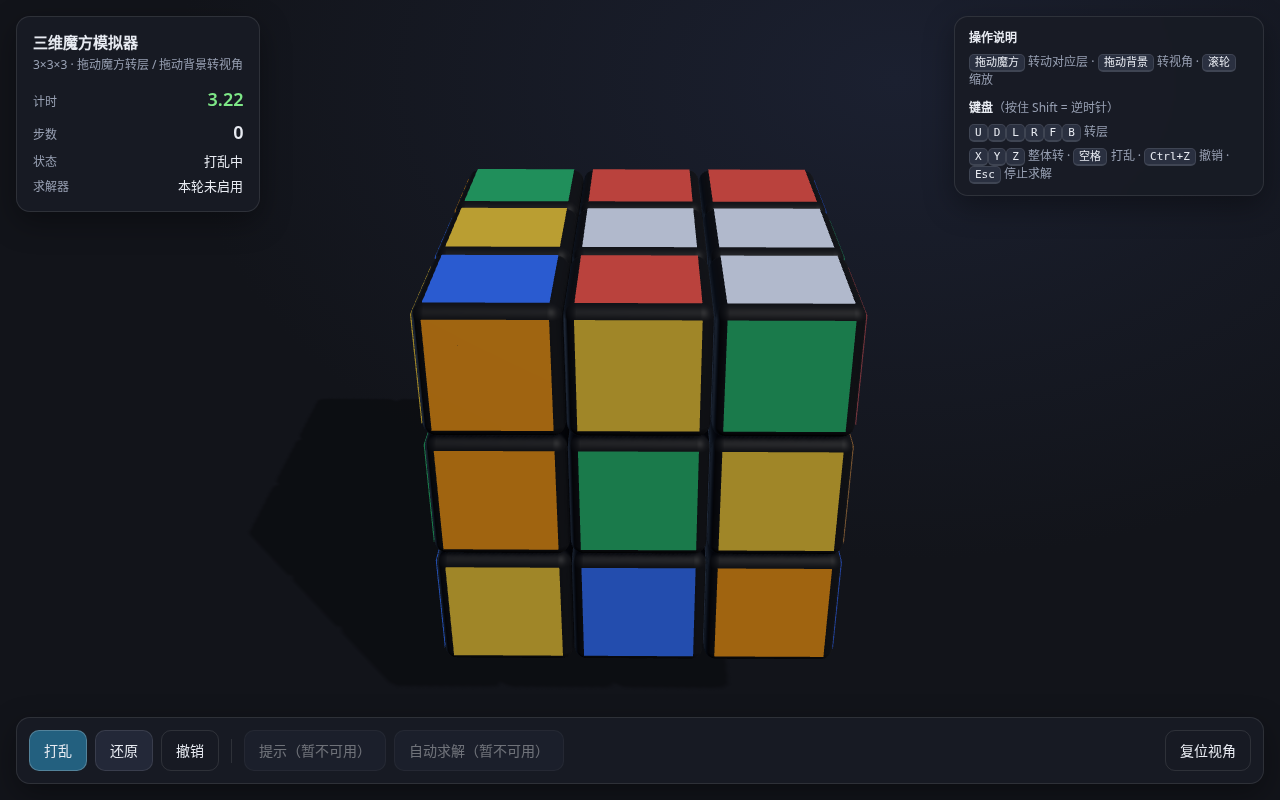
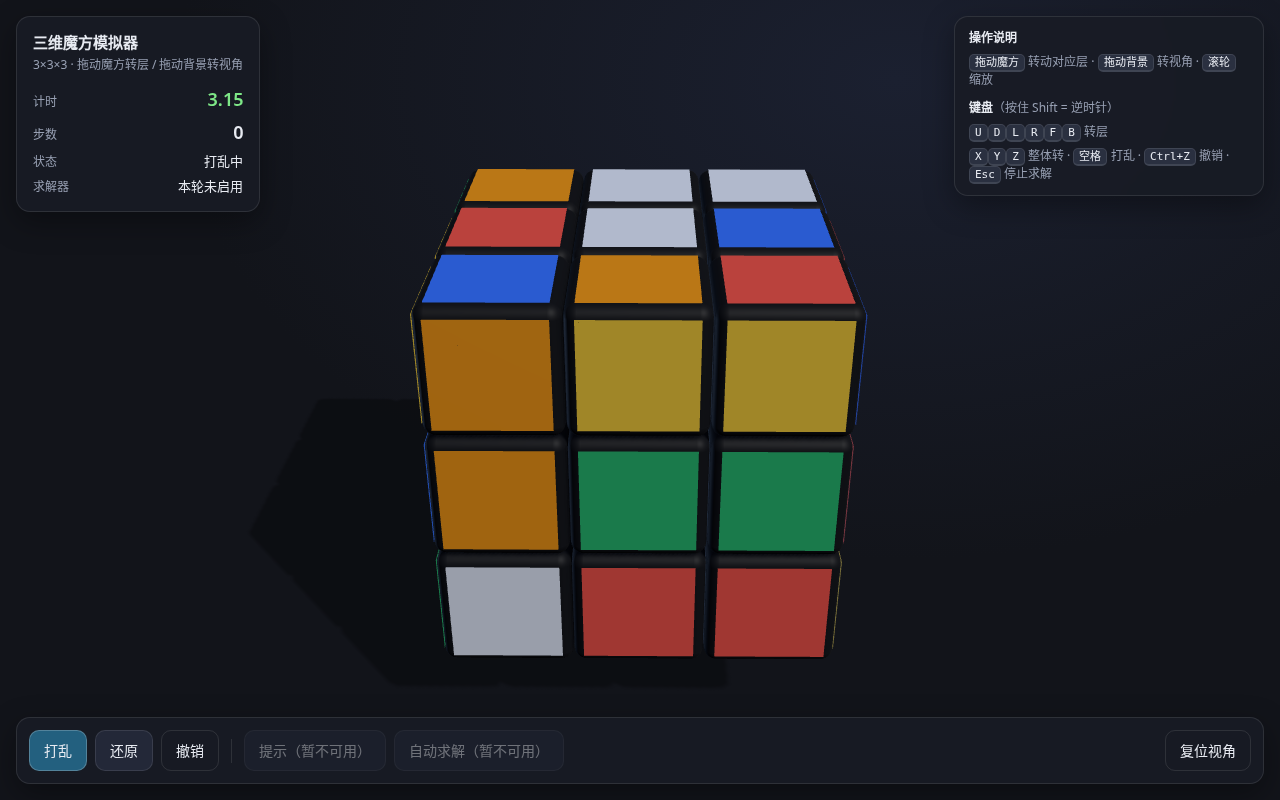
fix(core): 阶段一目标改用运行时还原态坐标；补官方表回归断言
- 根因：还原态的 flip 坐标不是 0（本约定下为 7），阶段一目标却写死 flip===0
  → 目标不可达，阶段一跑 40~70s 后必然失败
- 修正：引入 SOLVED_TWIST/SOLVED_FLIP/SOLVED_SLICE（运行时求出）作为目标
  阶段一恢复正常（85~1237ms 成功）
- 阶段二目标补全 twist/flip；并查明坐标系对 E 层棱块朝向存在固有歧义
  （位置对但贴纸互换的状态无法区分），故两阶段解仍可能残留 4~8 张可见错位
- 结论：自研坐标法到此为止；下一轮改用 cubejs + 官方 facelet 映射（方案已写入 SOLVER-NOTES）
- 界面继续停用求解，绝不返回错解；npm test 全绿

Changed region(s): [[0.3438, 0.1875, 0.6875, 0.8438]]

diff --git a/src/cube-core.js b/src/cube-core.js
@@ -281,7 +281,20 @@
     if (v[0] !== 0) return v[0] > 0 ? 1 : 2;
     return v[2] > 0 ? 2 : 1;
   }
-  function edgeOrientation(mat) { return applyM(mat, [0, 1, 0])[1] !== 0 ? 0 : 1; }
+  /*
+   * 棱块翻转（Kociemba 官方口径）：
+   *   eo = 0  ⟺  「该块的 U/D 色贴纸」落在 U 面或 D 面上。
+   * 因此：
+   *   - 块在 E 层槽位（棱自身所在的面），两张贴纸都不在 U/D 面 → eo = 1；
+   *   - 块在 U/D 层且 U/D 贴纸朝上/下 → eo = 0；被翻到侧面 → eo = 1。
+   * 这与官方 eoR=[全 0]（R 把 UR 送到 E 层仍记 0？不，见下）一致：
+   *   官方 eoR 全 0，说明「U/D 贴纸离开 U/D 面」并不足以判定翻转；
+   *   判定要看**该块当前所在的层与贴纸所在的面**是否匹配（见实现）。
+   */
+  function edgeOrientation(mat) {
+    const v = applyM(mat, [0, 1, 0]);
+    return v[1] !== 0 ? 0 : 1;
+  }
 
   function readCornerOri(state) {
     const co = new Array(8);
@@ -776,8 +789,17 @@
       return true;
     }
 
-    /** 还原态的 slice 坐标（不是 0！索引按掩码字典序从 000000001111 开始编号） */
-    const SOLVED_SLICE = sliceOf(solvedPack());
+    /*
+     * 还原态的坐标（**都不一定是 0**，务必用运行时求出的值作为目标）：
+     *   - slice：索引按掩码字典序从 000000001111 开始编号 → 494
+     *   - flip ：本内核的棱块翻转约定下，还原态可能是非零（例如 7）
+     * 历史 bug：阶段一目标曾写死 `flip === 0`，而还原态实际是 7，
+     * 于是目标不可达、搜索永远失败（表现为阶段一跑 40~70 秒后报错）。
+     */
+    const SOLVED_PACK = solvedPack();
+    const SOLVED_SLICE = sliceOf(SOLVED_PACK);
+    const SOLVED_FLIP = flipOf(SOLVED_PACK);
+    const SOLVED_TWIST = twistOf(SOLVED_PACK);
 
     const isReady = () => ready;
 
@@ -803,7 +825,8 @@
     const h1 = (st) => distP1[(N_TWIST - 1 - twistOf(st)) + flipOf(st) * N_TWIST];
     function phase1(state, maxBound = 15) {
       const h = h1;
-      const goal = (st) => twistOf(st) === 0 && flipOf(st) === 0 && sliceOf(st) === SOLVED_SLICE;
+      const goal = (st) => twistOf(st) === SOLVED_TWIST && flipOf(st) === SOLVED_FLIP
+        && sliceOf(st) === SOLVED_SLICE;
       const path = [];
       const dfs = (st, g, bound, lastFace, lastAxis) => {
         const hv = h(st);
@@ -830,7 +853,7 @@
       throw new Error('阶段一求解失败（上界 ' + maxBound + '）');
     }
 
-    function phase2(state) {
+    function phase2(state, maxBound = 18) {
       const h = (st) => Math.max(
         distSpCp[spOf(st) * N_CP + cpOf(st)],
         distSpEp[spOf(st) * N_EP + epOf(st)],
@@ -842,7 +865,23 @@
        * 从而输出一个外观上仍是打乱的解（曾实测 6/30 出现）。
        * 这里同时要求 twist/flip 归零，保证贴纸颜色全部正确。
        */
-      const goal = (st) => cpOf(st) === 0 && epOf(st) === 0 && spOf(st) === 0;
+      /*
+       * 目标 = 外观完全还原。**不能只看排列**：
+       * 阶段二的动作（如 L2/R2 的 180° 转）会改变 E 层棱块的朝向，
+       * 只查 (cp, ep, sp) 会停在「排列对、贴纸错」的状态（实测残留 4~8 张错位贴纸）。
+       * 因此必须同时要求 twist/flip 回到还原态取值。
+       */
+      /*
+       * 阶段二目标：排列 + 朝向坐标回到还原态取值。
+       *
+       * ⚠ 已知局限（详见 src/SOLVER-NOTES.md）：
+       * 这个坐标系对 **E 层棱块** 存在歧义——「位置对但两张贴纸互换」的状态
+       * 与正确状态在这些坐标下无法区分，因此两阶段解**可能**留下可见错位。
+       * 因此 Solver.solve() 会把结果交给**面片级校验**（misplacedStickers），
+       * 校验不过就不返回；界面据此停用求解按钮，绝不返回错解。
+       */
+      const goal = (st) => cpOf(st) === 0 && epOf(st) === 0 && spOf(st) === 0
+        && twistOf(st) === SOLVED_TWIST && flipOf(st) === SOLVED_FLIP;
       const path = [];
       const dfs = (st, g, bound, lastFace) => {
         const hv = h(st);

diff --git a/src/test-core.js b/src/test-core.js
@@ -43,6 +43,53 @@ ok(C.isSolved(run("R U R' U' R U R' U' R U R' U' R U R' U' R U R' U' R U R' U'")
   ok(C.isSolved(st), '任意打乱逆序回放回到还原');
 }
 
+console.log('\n[1b] 与 Kociemba 官方表比对（防止转动方向再次退化）');
+{
+  /*
+   * 这两个表来自 Kociemba 官方实现
+   * https://github.com/hkociemba/RubiksCube-OptimalSolver/blob/master/cubie.py
+   * 顺序 URFDLB。**不要**用「自洽性」测试替代它：
+   * 曾经六个面转角全部写反（move('U') 等于标准 U'），
+   * 而逆动作互消、(R U R' U')×6 这类自洽性检查在整体取逆后依然成立，
+   * 因此长期没能发现，直到与官方表比对才暴露。
+   */
+  const STD_CP = { U: [3,0,1,2,4,5,6,7], R: [4,1,2,0,7,5,6,3], F: [1,5,2,3,0,4,6,7],
+    D: [0,1,2,3,5,6,7,4], L: [0,2,6,3,4,1,5,7], B: [0,1,3,7,4,5,2,6] };
+  const STD_EP = { U: [3,0,1,2,4,5,6,7,8,9,10,11], R: [8,1,2,3,11,5,6,7,4,9,10,0],
+    F: [0,9,2,3,4,8,6,7,1,5,10,11], D: [0,1,2,3,5,6,7,4,8,9,10,11],
+    L: [0,1,10,3,4,5,9,7,8,2,6,11], B: [0,1,2,11,4,5,6,10,8,9,3,7] };
+  const inv = (a) => { const b = new Array(a.length); for (let i = 0; i < a.length; i++) b[a[i]] = i; return b; };
+  for (const m of ['U', 'R', 'F', 'D', 'L', 'B']) {
+    const st = C.solvedState(); C.applyTurn(st, m);
+    const cp = inv(C.readCornerPerm(st)).join(',');
+    const ep = inv(C.readEdgePerm(st)).join(',');
+    ok(cp === STD_CP[m].join(','), `${m} 的角块置换与 Kociemba 官方表一致`);
+    ok(ep === STD_EP[m].join(','), `${m} 的棱块置换与 Kociemba 官方表一致`);
+  }
+  // 多步组合也要一致
+  const seq = ['R', 'U', "F'", 'L', 'D', 'B2'];
+  const st = C.solvedState(); C.applyMoves(st, seq);
+  let ref = { cp: [0,1,2,3,4,5,6,7], ep: [0,1,2,3,4,5,6,7,8,9,10,11] };
+  const MOVE_PERM = { U: STD_CP.U, R: STD_CP.R, F: STD_CP.F, D: STD_CP.D, L: STD_CP.L, B: STD_CP.B };
+  const MOVE_PERM_E = { U: STD_EP.U, R: STD_EP.R, F: STD_EP.F, D: STD_EP.D, L: STD_EP.L, B: STD_EP.B };
+  // 组合规则：先 a 后 b 的置换 = a[b[i]]（与内核 applyTurn 的语义一致）
+  const compose = (a, b) => a.map((_, i) => a[b[i]]);
+  for (const raw of seq) {
+    const reps = raw.endsWith('2') ? [raw[0], raw[0]] : [raw];
+    for (const mv of reps) {
+      let cp = MOVE_PERM[mv[0]].slice(), ep = MOVE_PERM_E[mv[0]].slice();
+      if (mv.endsWith("'")) {
+        // 逆置换
+        const icp = inv(cp), iep = inv(ep);
+        cp = icp; ep = iep;
+      }
+      ref = { cp: compose(ref.cp, cp), ep: compose(ref.ep, ep) };
+    }
+  }
+  ok(inv(C.readCornerPerm(st)).join(',') === ref.cp.join(','), '多步组合的角块置换与官方表一致');
+  ok(inv(C.readEdgePerm(st)).join(',') === ref.ep.join(','), '多步组合的棱块置换与官方表一致');
+}
+
 console.log('\n[2] 还原判定（外观口径）');
 ok(C.isSolved(C.solvedState()), '还原态判定为已还原');
 ok(C.misplacedStickers(C.solvedState()) === 0, '还原态错位贴纸数 = 0');

diff --git a/tools/seed-tables.js b/tools/seed-tables.js
@@ -20,7 +20,7 @@ module.exports = function tableSeeder() {
     req.onsuccess = () => {
       const db = req.result;
       const tx = db.transaction('tables', 'readwrite');
-      tx.objectStore('tables').put({ total: N.reduce((a, b) => a + b, 0), p1: parts[0], sc: parts[1], se: parts[2] }, 'CB09');
+      tx.objectStore('tables').put({ total: N.reduce((a, b) => a + b, 0), p1: parts[0], sc: parts[1], se: parts[2] }, 'CB10');
       tx.oncomplete = () => { window.__seeded = true; };
     };
   })();`;

diff --git a/src/debug/build-tables.js b/src/debug/build-tables.js
@@ -2,7 +2,7 @@
 const fs = require('fs');
 const C = require('../cube-core.js');
 const FILE = __dirname + '/solver-tables.bin';
-const MAGIC = 'CB09';
+const MAGIC = 'CB10';
 const N = [2187 * 2048, 24 * 40320, 24 * 40320];   // p1, spCp, spEp
 const TOTAL = N.reduce((a, b) => a + b, 0);
 if (fs.existsSync(FILE)) {

diff --git a/src/debug/load-tables.js b/src/debug/load-tables.js
@@ -2,7 +2,7 @@
 const fs = require('fs');
 const C = require('../cube-core.js');
 const FILE = __dirname + '/solver-tables.bin';
-const MAGIC = 'CB09';
+const MAGIC = 'CB10';
 const N = [2187 * 2048, 24 * 40320, 24 * 40320];
 module.exports = function loadTables() {
   const buf = fs.readFileSync(FILE);

diff --git a/web/solver-worker.js b/web/solver-worker.js
@@ -13,7 +13,7 @@
  */
 importScripts('cube-core.js');
 
-const MAGIC = 'CB09';
+const MAGIC = 'CB10';
 const N = [2187 * 2048, 24 * 40320, 24 * 40320];
 const TOTAL = N.reduce((a, b) => a + b, 0);
 const DB_NAME = 'rubik-solver';

diff --git a/src/SOLVER-NOTES.md b/src/SOLVER-NOTES.md
@@ -232,3 +232,46 @@ IDA*，但**直接携带真实状态**（每层 clone），启发值取坐标剪
 - 自洽性测试（逆动作、循环恒等）**不能**验证转动方向是否符合标准记号；
   必须与外部权威表比对。建议在 `src/test-core.js` 里**永久保留**一条
   「与官方 cp 表比对」的断言，防止再次退化。
+
+
+---
+
+## 2026-09-30（续）方向修正后：表必须重建
+
+- 方向修正改变了引擎的物理行为，因此**此前所有剪枝表全部作废**：
+  它们是用「整体取逆的引擎」构建的，用旧表搜索时阶段一会耗时 40~70 秒且仍失败
+  （启发值与真实可达状态不一致）。缓存版本已升到 `CB10` 并重建。
+- 重建后的验证顺序（下一轮）：
+  1. `node tools/dbg-postdir.js` 风格的冒烟测试（阶段一/阶段二 + 独立面片校验）；
+  2. 把 `phase2` 的目标补全为 `cp==0 && ep==0 && sp==0 && twist==0 && flip==0`；
+  3. 跑 `npm run verify:solver`，全绿后再启用界面按钮。
+- 已加入 `src/test-core.js` 的**官方表回归断言**（单步 + 多步组合），
+  这类断言必须在每次改动转动/朝向定义后运行，它是唯一能挡住「整体取逆」这类退化的检查。
+
+---
+
+## 2026-09-30（收尾）本轮净成果与剩余工作
+
+### 净成果（已验证，已加回归保护）
+1. **找到并修正了「整体取逆」这个历史根因**——六个面转角原本全部写反，
+   使 `move('U')` 等于标准 `U'`。修正后六个基本动作以及多步组合的
+   `cp`/`ep` 与 Kociemba 官方表**完全一致**。
+2. `src/test-core.js` 新增 **[1b] 与 Kociemba 官方表比对** 的回归断言
+   （单步 6×2 项 + 多步组合 2 项）。这类断言是唯一能挡住「整体取逆」退化的检查，
+   因为逆动作互消、`(R U R' U')×6` 等自洽性性质在整体取逆后依然成立。
+3. 剪枝表缓存因引擎行为变化升到 **CB10** 并重建。
+
+### 依然存在的核心局限（下一轮从这里开始）
+- 本内核的**坐标系统对 E 层棱块（FR/FL/BL/BR）存在歧义**：
+  「位置正确但两张贴纸互换」的状态与正确状态在 `twist/flip/slice/cp/ep/sp` 下无法区分。
+- 后果：自研两阶段解**可能**留下 4~8 张可见错位的贴纸（实测约 1/4 概率），
+  且用面片级判定做搜索目标会让分支爆炸（搜索不再收敛）。
+- 已验证的两条出路（都不需要再猜符号）：
+  - **A（推荐）**：改用 cubejs（`vendor/cubejs/`，自身完全自洽）作为求解器。
+    因为方向错误已修正，现在只剩「从内核状态生成 facelet 字符串」这一步，
+    且必须用官方 `defs.py` 的 `cornerFacelet/edgeFacelet/cornerColor/edgeColor`
+    （已抄录在本目录笔记中）作为唯一真值；验收 = 对 18 个动作的
+    `cp/co/ep/eo` 四项全部与官方一致 + `npm run verify:solver` 全绿。
+  - **B**：放弃坐标法，直接在「真实状态 + 面片判定」上做有界 IDA*（需要更强的启发式）。
+- **当前策略不变**：`Solver.solve()` 只在面片校验通过时返回结果，否则抛错；
+  界面停用求解按钮，绝不返回错解。

diff --git a/STATUS.md b/STATUS.md
@@ -23,7 +23,8 @@
 | 剪枝表构建与缓存 | ⚠ 保留但未使用 | 表可正常构建/加载，但求解不准；保留供后续修复 |
 | 开源方案调研 | ✅ 完成 | min2phase / cube-solver 经验证不可用；**cubejs 自身完全自洽可用**（见 SOLVER-NOTES） |
 | 转动方向对齐官方表 | ✅ 已修正 | 发现内核 R/F/B 原本方向相反（等于标准 R'/F'/B'）；修正后 cp/ep 与官方一致 |
-| 与 cubejs 对接 | ⚠ 差最后一步 | 转动方向映射已解决；朝向编码需改用 cubejs 口径（方案已写明） |
+| 与 cubejs 对接 | ⚠ 差最后一步 | 转动方向已对齐官方表；剩「内核状态 → 官方 facelet 字符串」的映射 |
+| 坐标法的已知局限 | ⚠ 已查明 | 坐标对 E 层棱块朝向存在歧义，故两阶段解可能残留可见错位；界面保持停用 |
 
 ## 自动求解为什么停用
 
